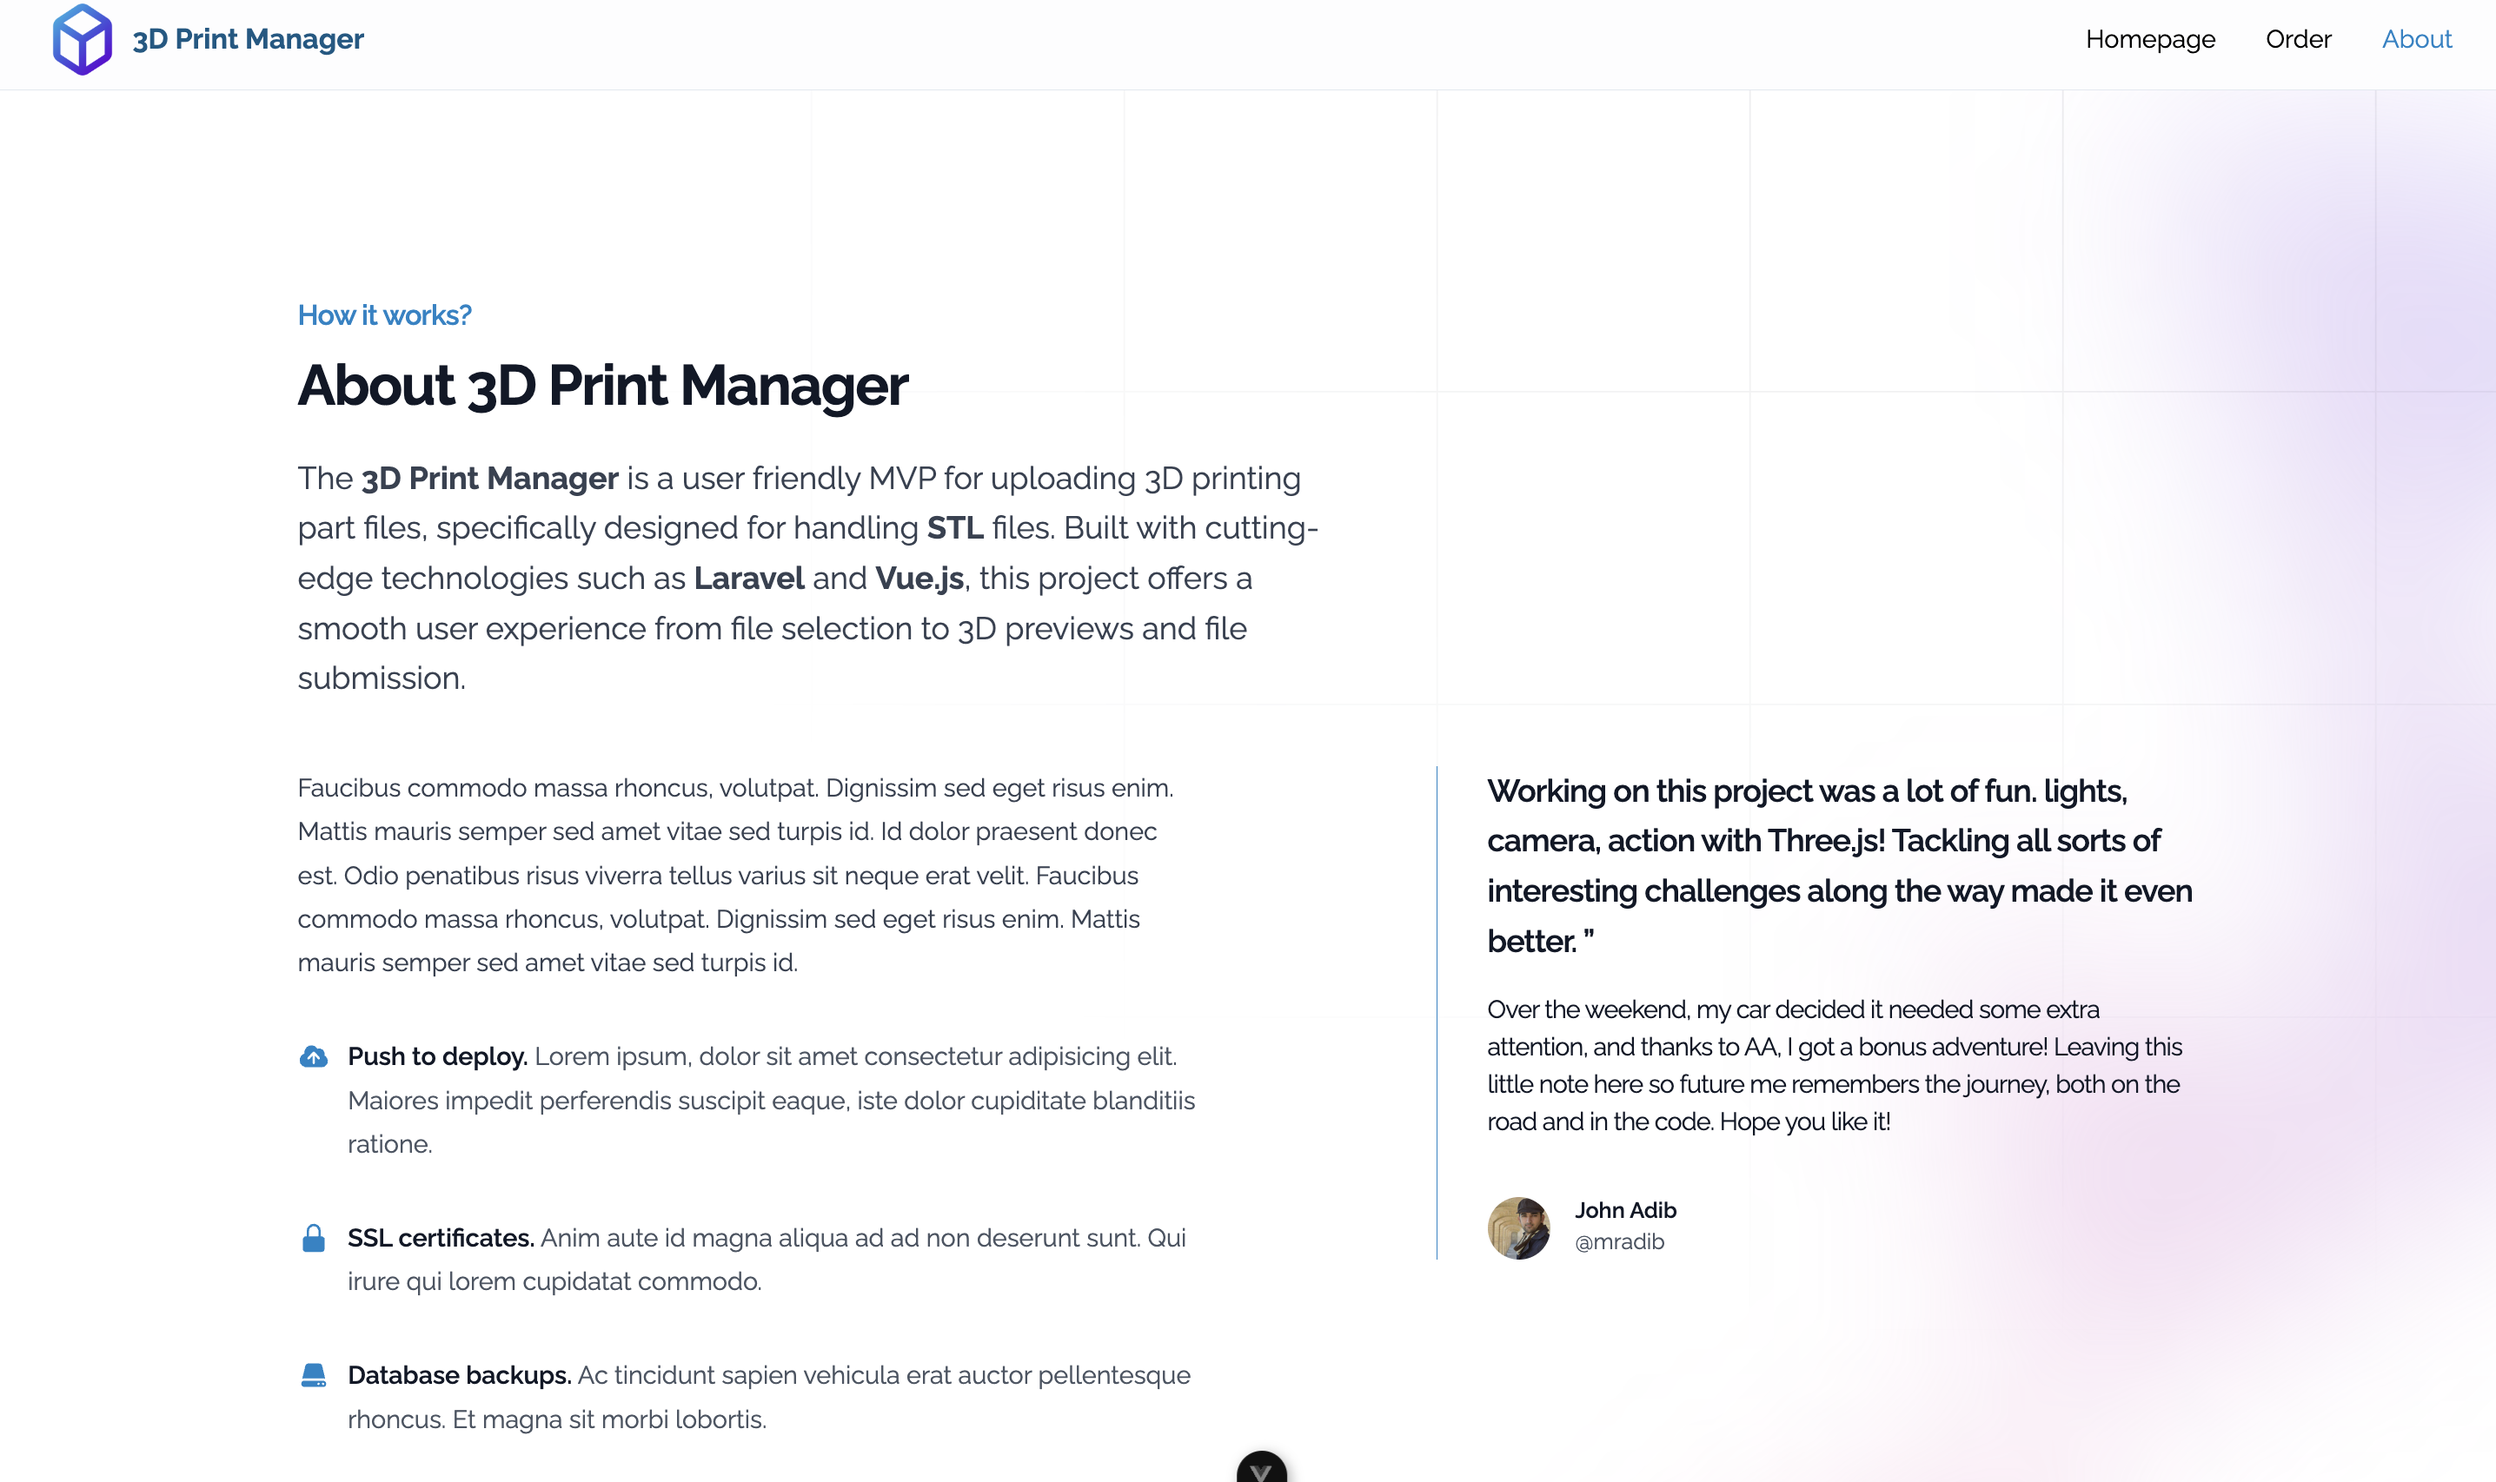
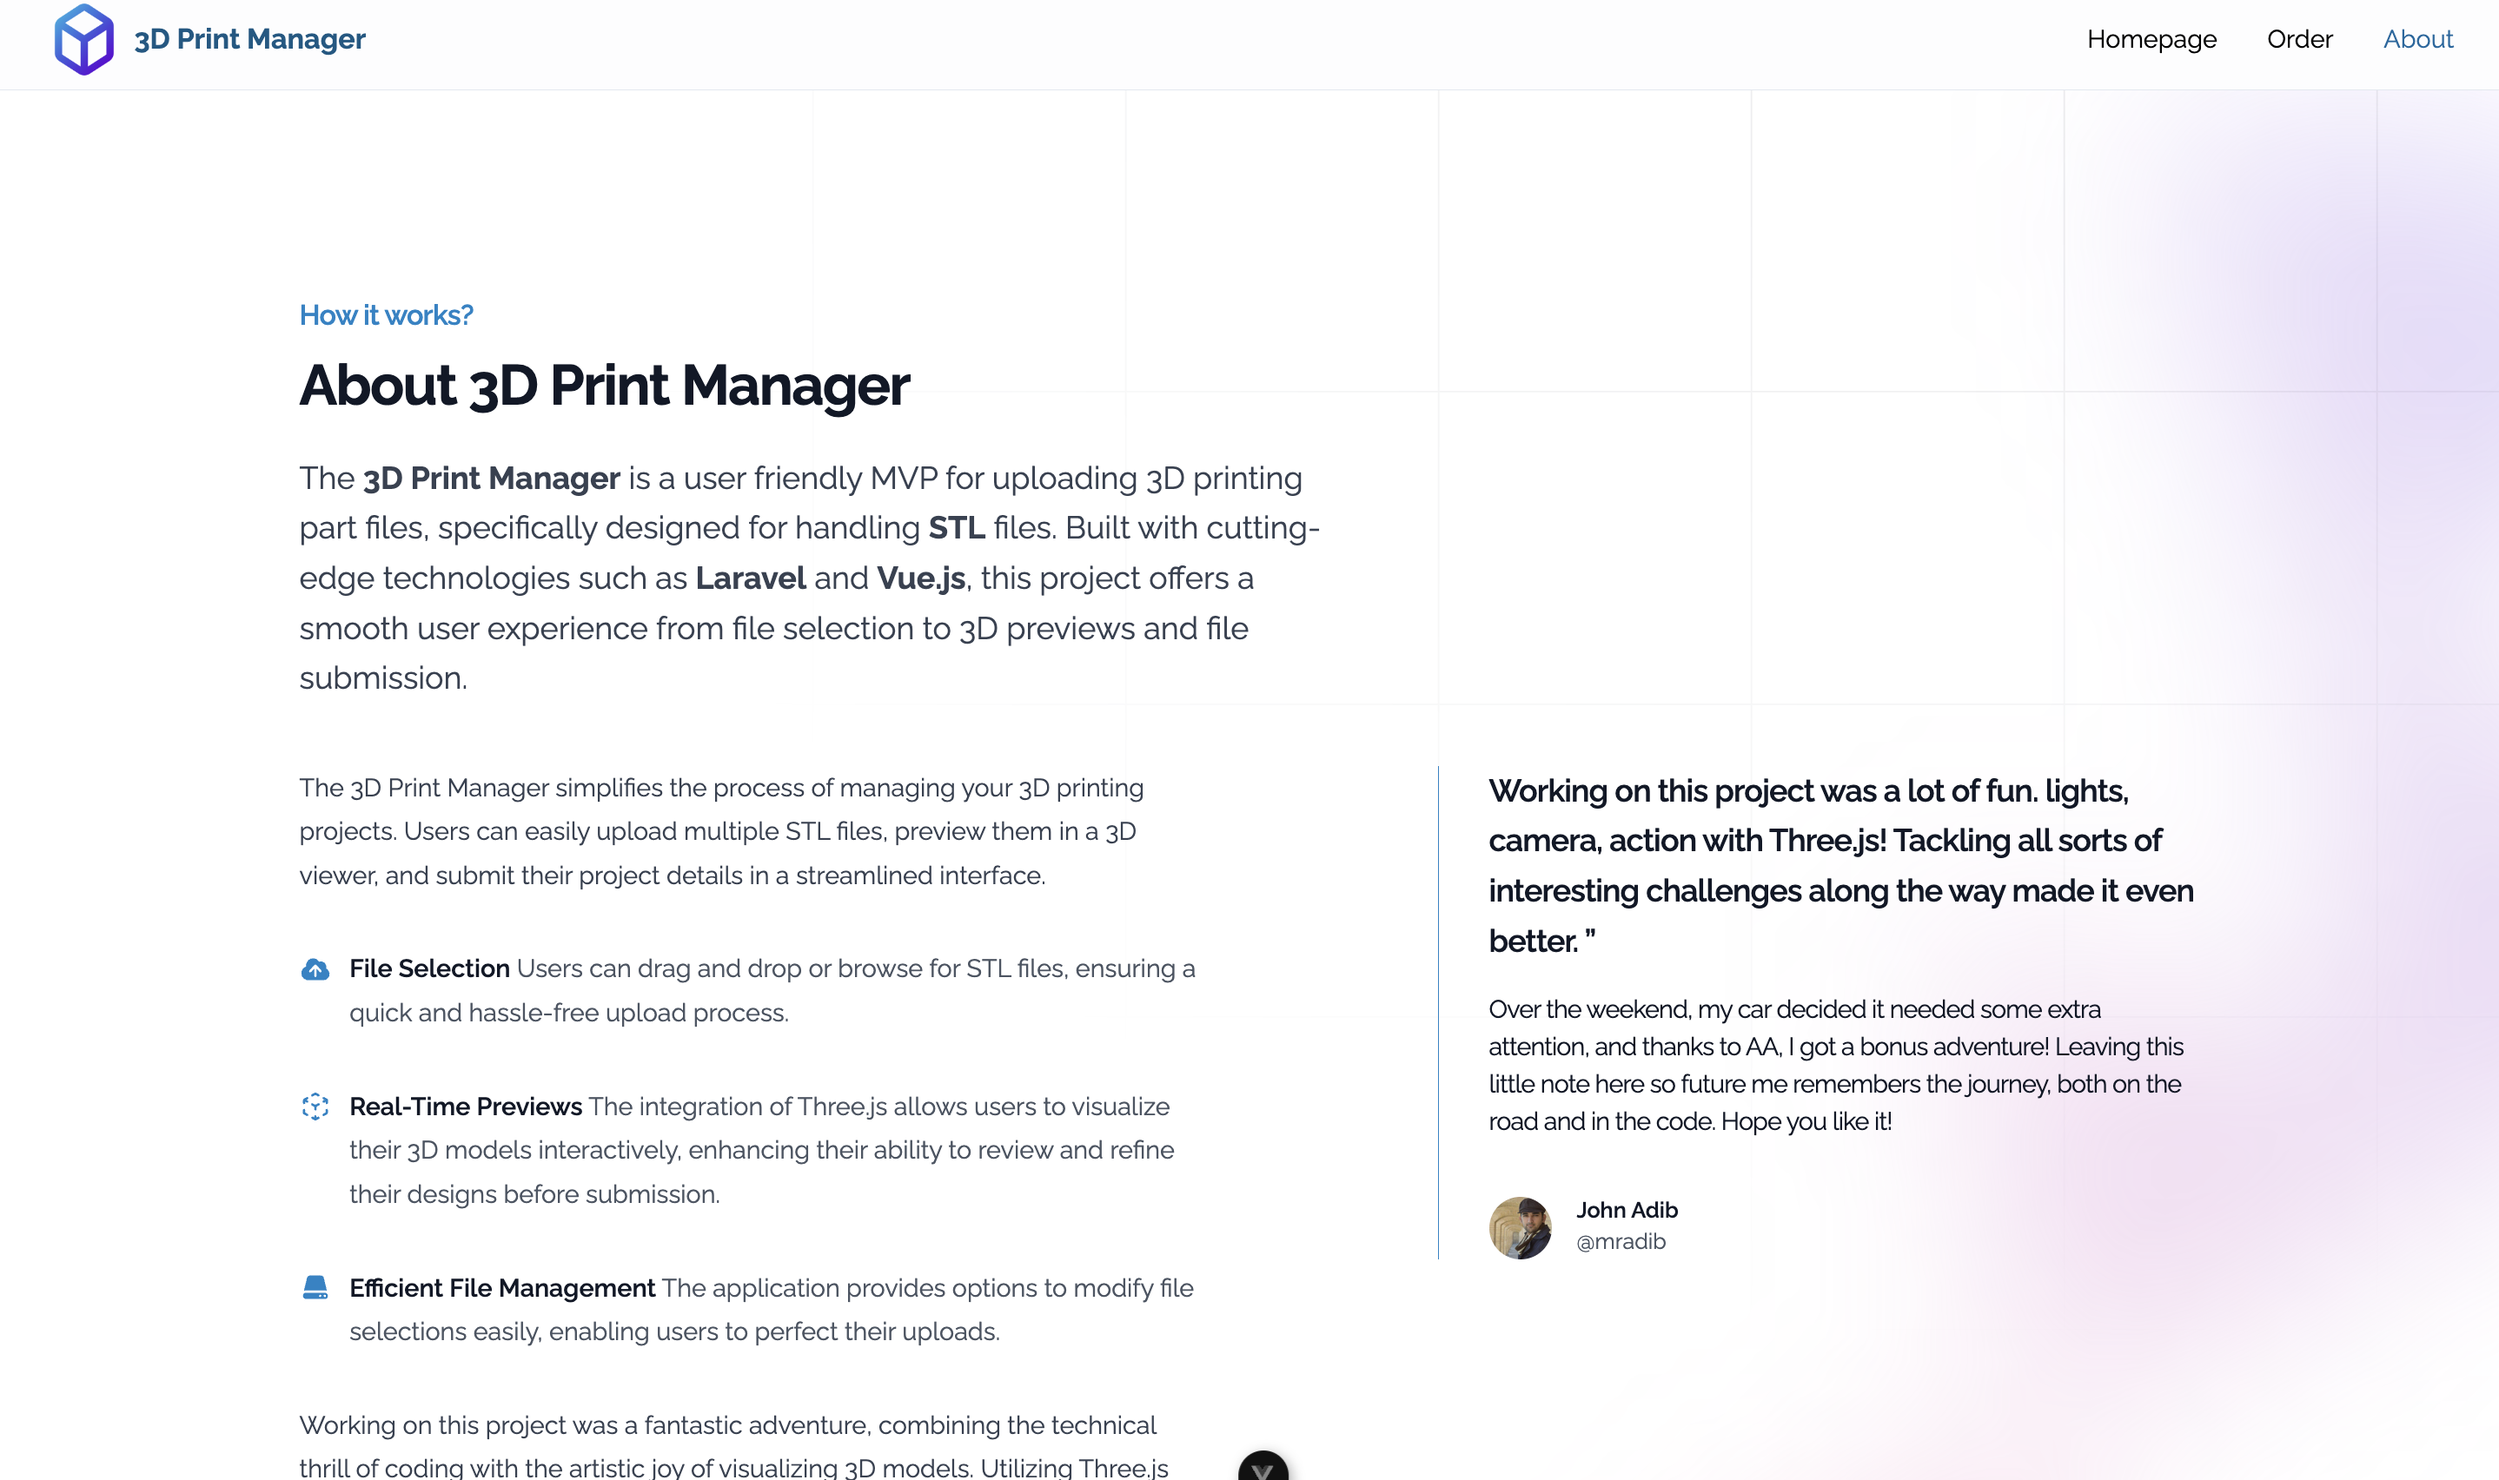
update about page

diff --git a/frontend/src/views/AboutView.vue b/frontend/src/views/AboutView.vue
@@ -109,12 +109,10 @@
 
         <div class="max-w-xl text-base leading-7 text-gray-700 lg:col-span-7">
           <p>
-            Faucibus commodo massa rhoncus, volutpat. Dignissim sed eget risus
-            enim. Mattis mauris semper sed amet vitae sed turpis id. Id dolor
-            praesent donec est. Odio penatibus risus viverra tellus varius sit
-            neque erat velit. Faucibus commodo massa rhoncus, volutpat.
-            Dignissim sed eget risus enim. Mattis mauris semper sed amet vitae
-            sed turpis id.
+            The 3D Print Manager simplifies the process of managing your 3D
+            printing projects. Users can easily upload multiple STL files,
+            preview them in a 3D viewer, and submit their project details in a
+            streamlined interface.
           </p>
           <ul role="list" class="mt-8 max-w-xl space-y-8 text-gray-600">
             <li class="flex gap-x-3">
@@ -124,25 +122,25 @@
               />
               <span
                 ><strong class="font-semibold text-gray-900"
-                  >Push to deploy.</strong
+                  >File Selection</strong
                 >
-                Lorem ipsum, dolor sit amet consectetur adipisicing elit.
-                Maiores impedit perferendis suscipit eaque, iste dolor
-                cupiditate blanditiis ratione.</span
-              >
+                Users can drag and drop or browse for STL files, ensuring a
+                quick and hassle-free upload process.
+              </span>
             </li>
             <li class="flex gap-x-3">
-              <LockClosedIcon
+              <CubeTransparentIcon
                 class="mt-1 h-5 w-5 flex-none text-sky-600"
                 aria-hidden="true"
               />
               <span
                 ><strong class="font-semibold text-gray-900"
-                  >SSL certificates.</strong
+                  >Real-Time Previews</strong
                 >
-                Anim aute id magna aliqua ad ad non deserunt sunt. Qui irure qui
-                lorem cupidatat commodo.</span
-              >
+                The integration of Three.js allows users to visualize their 3D
+                models interactively, enhancing their ability to review and
+                refine their designs before submission.
+              </span>
             </li>
             <li class="flex gap-x-3">
               <ServerIcon
@@ -151,19 +149,18 @@
               />
               <span
                 ><strong class="font-semibold text-gray-900"
-                  >Database backups.</strong
+                  >Efficient File Management</strong
                 >
-                Ac tincidunt sapien vehicula erat auctor pellentesque rhoncus.
-                Et magna sit morbi lobortis.</span
-              >
+                The application provides options to modify file selections
+                easily, enabling users to perfect their uploads.
+              </span>
             </li>
           </ul>
           <p class="mt-8">
-            Et vitae blandit facilisi magna lacus commodo. Vitae sapien duis
-            odio id et. Id blandit molestie auctor fermentum dignissim. Lacus
-            diam tincidunt ac cursus in vel. Mauris varius vulputate et ultrices
-            hac adipiscing egestas. Iaculis convallis ac tempor et ut. Ac lorem
-            vel integer orci.
+            Working on this project was a fantastic adventure, combining the
+            technical thrill of coding with the artistic joy of visualizing 3D
+            models. Utilizing Three.js allowed me to create engaging real-time
+            previews, making it easier for users to interact with their designs.
           </p>
 
           <h2 class="mt-16 text-2xl font-bold tracking-tight text-gray-900">
@@ -235,7 +232,7 @@
 <script setup lang="ts">
 import {
   CloudArrowUpIcon,
-  LockClosedIcon,
+  CubeTransparentIcon,
   ServerIcon
 } from '@heroicons/vue/20/solid'
 </script>
